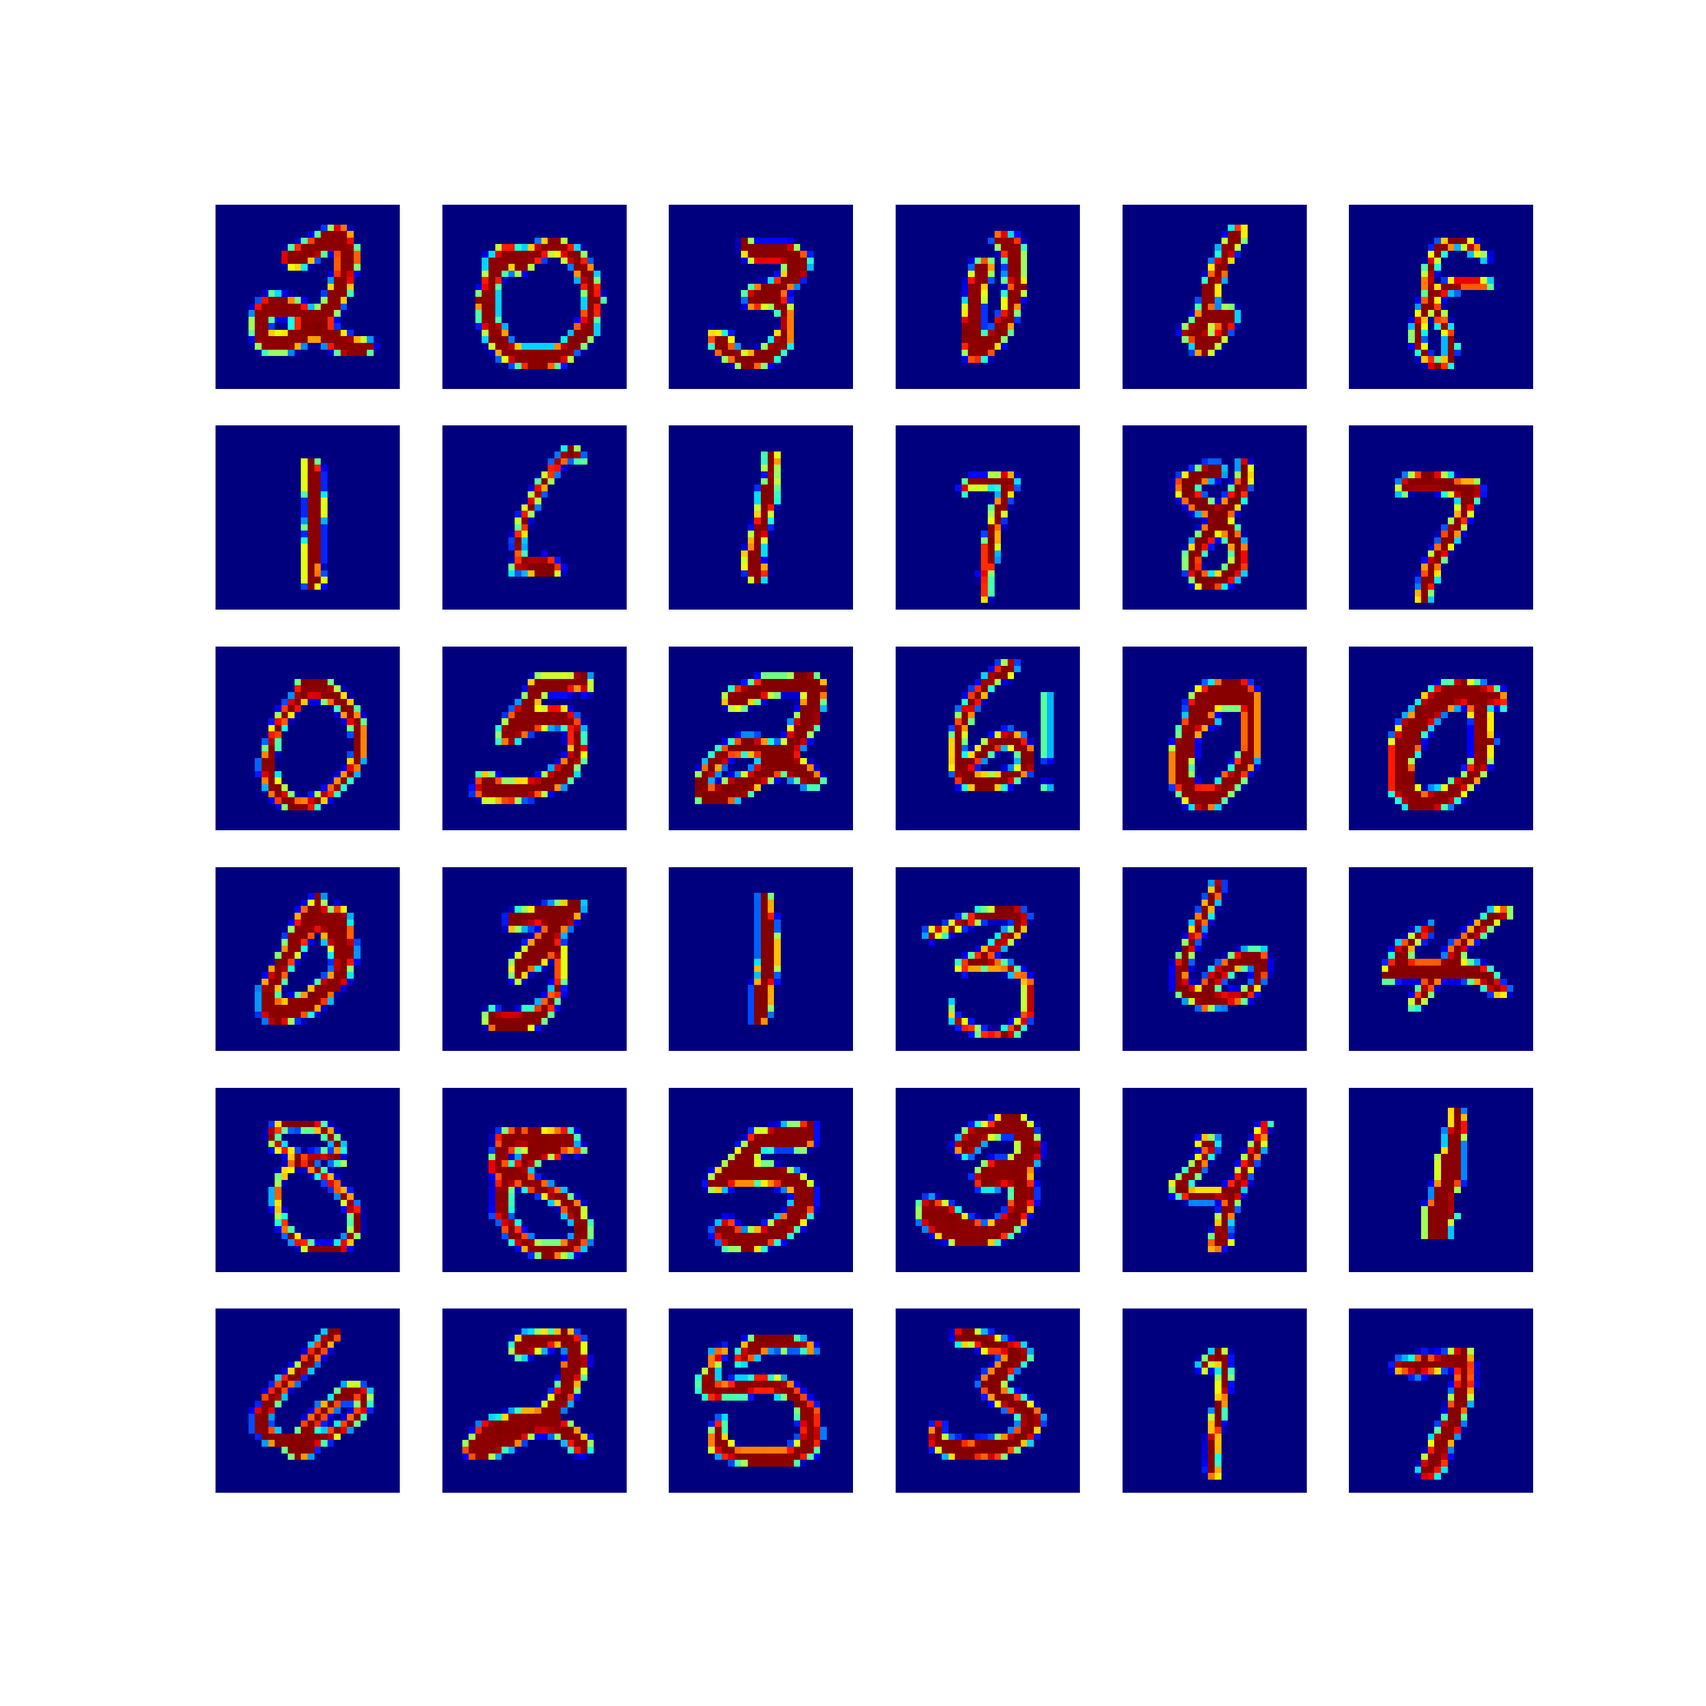
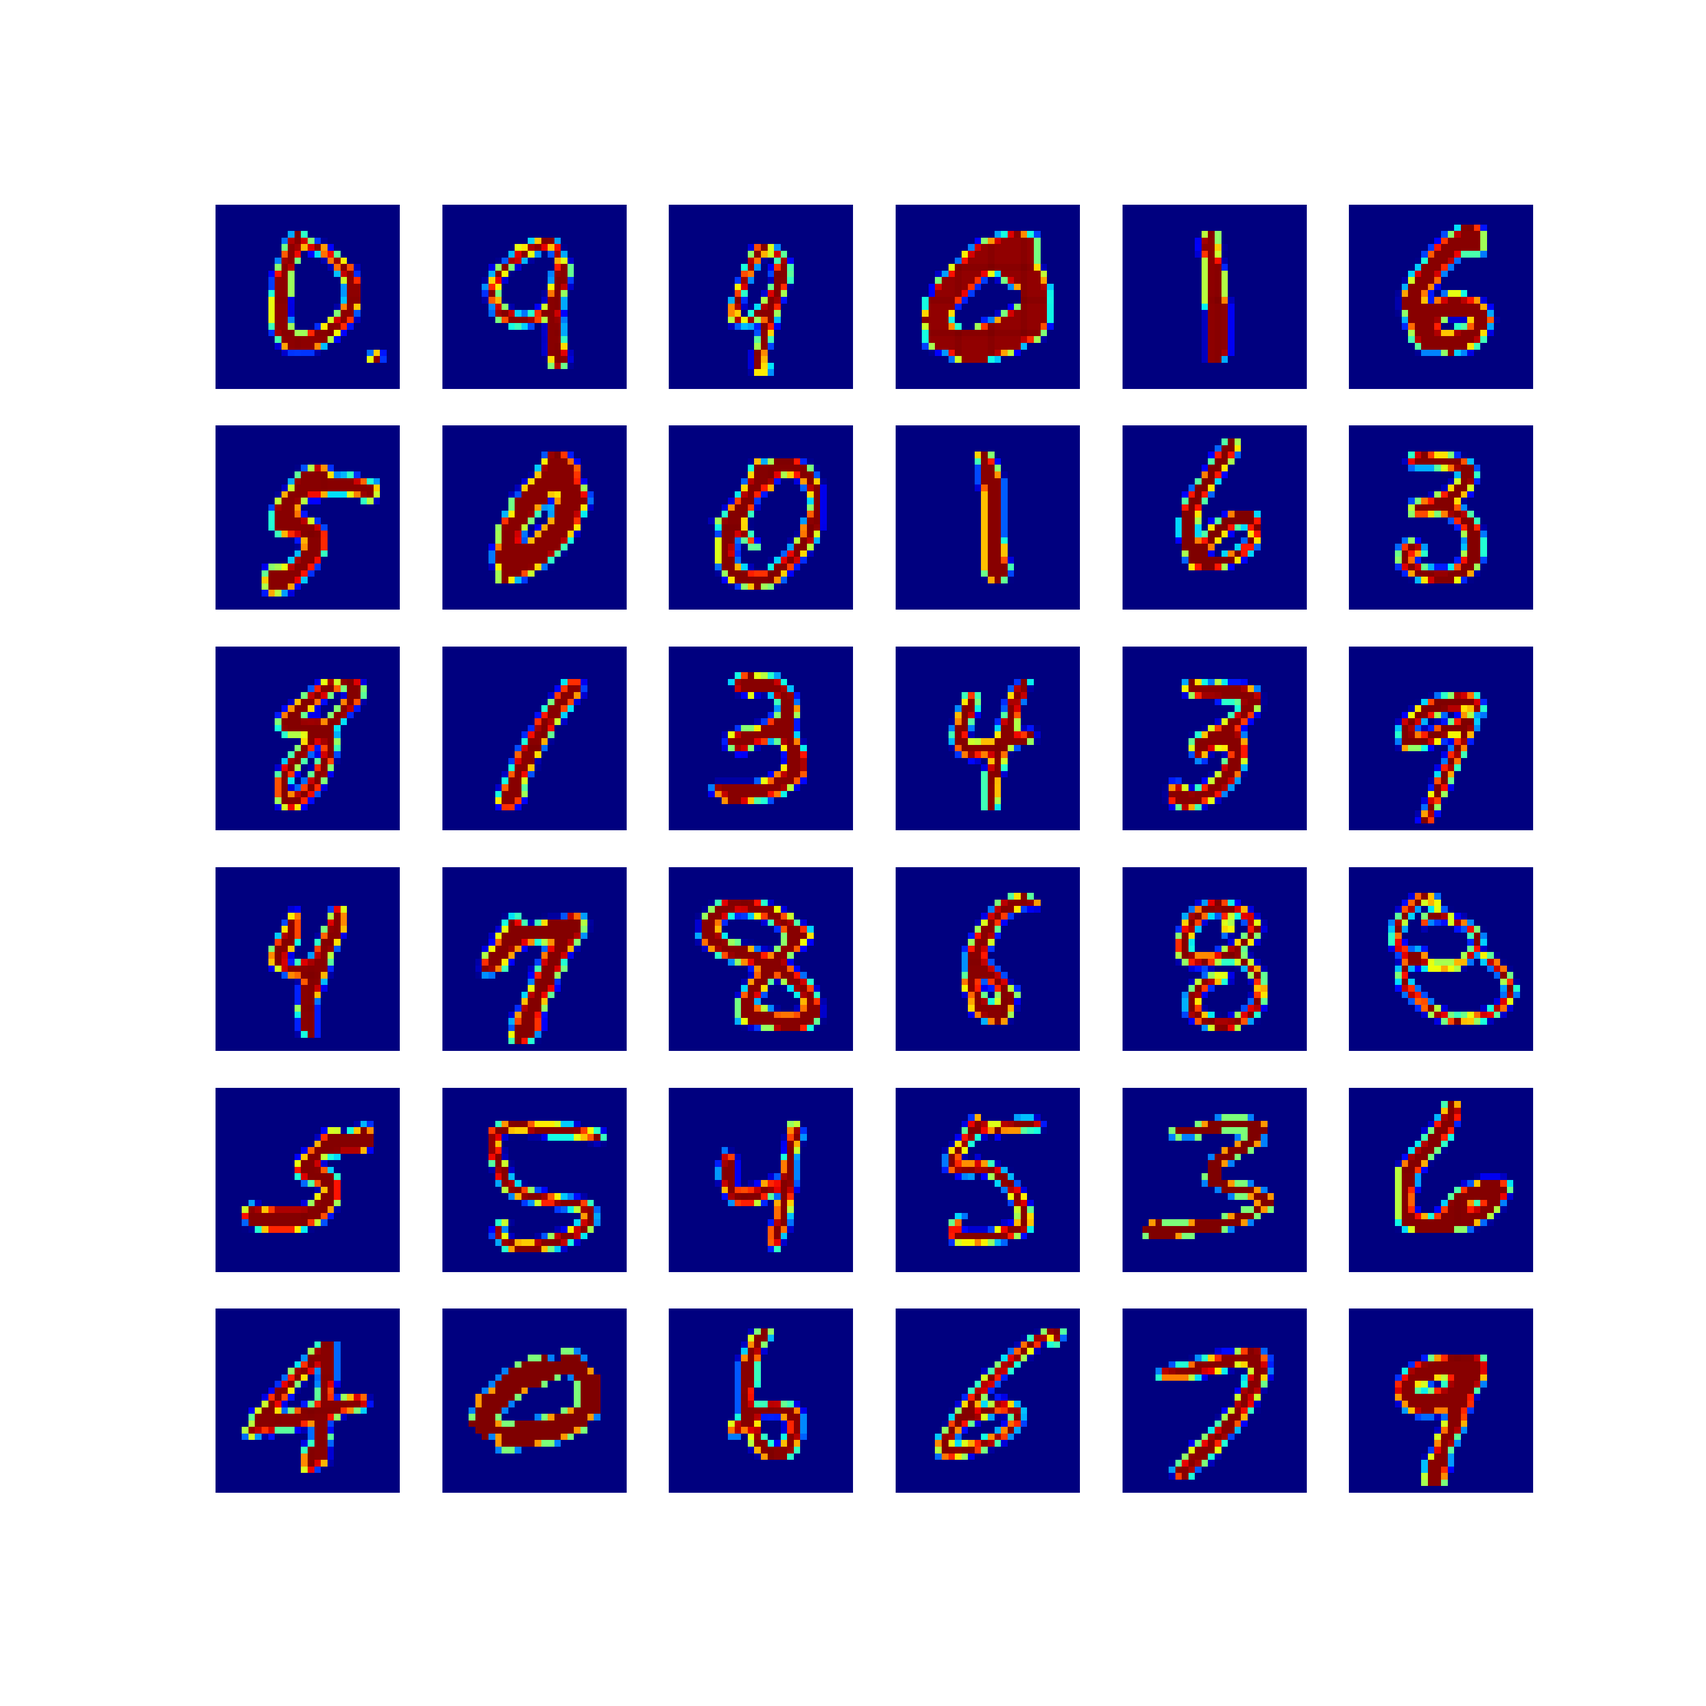
First version with 3D fields

diff --git a/tools/mytools.py b/tools/mytools.py
@@ -15,6 +15,169 @@ import sys
 import random
 import math
 import scipy.stats as stats
+import pyvista as pv
+import vtk
+
+###############################################################################
+###############################################################################
+class net_info:
+    '''Class to store the information of the permeability dataset'''
+    def __init__(self, conv_filters, conv_strides, conv_kernels, conv_activat,
+                 conv_padding, dens_neurons, dens_activat):
+        self.conv_filters = conv_filters
+        self.conv_strides = conv_strides
+        self.conv_kernels = conv_kernels
+        self.conv_activat = conv_activat
+        self.conv_padding = conv_padding
+        self.dens_neurons = dens_neurons
+        self.dens_activat = dens_activat
+###############################################################################
+
+###############################################################################
+###############################################################################
+def build_encoder3D(net, input_shape, latent_dim):
+    print(net.conv_filters,input_shape)
+    encoder_inputs = keras.Input(shape=input_shape)
+    x = layers.Conv3D(filters = net.conv_filters[0], 
+                      kernel_size = net.conv_kernels[0],
+                      strides = net.conv_strides[0], 
+                      activation = net.conv_activat[0],
+                      padding = net.conv_padding[0])(encoder_inputs)
+
+    for i in range(1,len(net.conv_filters)):
+      x = layers.Conv3D(filters = net.conv_filters[i], 
+                        kernel_size = net.conv_kernels[i],
+                        strides = net.conv_strides[i], 
+                        activation = net.conv_activat[i],
+                        padding = net.conv_padding[i])(x)
+    x = layers.Flatten()(x)
+    for i in range(len(net.dens_neurons)):
+      x = layers.Dense(net.dens_neurons[i], activation= net.dens_activat[i])(x)
+    z_mean = layers.Dense(latent_dim, name="z_mean")(x)
+    z_log_var = layers.Dense(latent_dim, name="z_log_var")(x)
+    z = Sampling(name='z')([z_mean, z_log_var])
+    encoder = keras.Model(encoder_inputs, [z_mean, z_log_var, z], name="encoder")
+    encoder.summary()
+    return encoder
+###############################################################################
+
+###############################################################################
+###############################################################################
+def build_decoder3D(net, input_shape, latent_dim, ndens, layer_shape, nconv):
+    latent_inputs = keras.Input(shape=(latent_dim,))
+    x = layers.Dense(net.dens_neurons[ndens],
+                     activation = net.dens_activat[ndens])(latent_inputs)
+    for i in range(ndens-1,-1,-1):
+      x = layers.Dense(net.dens_neurons[i], 
+                       activation = net.dens_activat[i])(x)
+
+    x = layers.Dense(layer_shape[0] * layer_shape[1] * layer_shape[2] *
+                     layer_shape[3], activation = "relu")(x)
+    x = layers.Reshape(layer_shape)(x)
+
+    for i in range(nconv,-1,-1):
+      x = layers.Conv3DTranspose(filters = net.conv_filters[i], 
+                                 kernel_size = net.conv_kernels[i],
+                                 strides = net.conv_strides[i], 
+                                 activation = net.conv_activat[i],
+                                 padding = net.conv_padding[i])(x)
+    decoder_outputs = layers.Conv3DTranspose(filters = input_shape[-1],
+                                             kernel_size = net.conv_kernels[0],
+                                             activation="linear", 
+                                             padding="same")(x)
+    decoder = keras.Model(latent_inputs, decoder_outputs, name="decoder")
+    decoder.summary()
+    return decoder
+###############################################################################
+
+###############################################################################
+###############################################################################
+def build_encoder2D(net, input_shape, latent_dim):
+    encoder_inputs = keras.Input(shape=input_shape)
+    x = layers.Conv2D(filters = net.conv_filters[0], 
+                      kernel_size = net.conv_kernels[0],
+                      strides = net.conv_strides[0], 
+                      activation = net.conv_activat[0],
+                      padding = net.conv_padding[0])(encoder_inputs)
+    for i in range(1,len(net.conv_filters)):
+      x = layers.Conv2D(filters = net.conv_filters[i], 
+                        kernel_size = net.conv_kernels[i],
+                        strides = net.conv_strides[i], 
+                        activation = net.conv_activat[i],
+                        padding = net.conv_padding[i])(x)
+    x = layers.Flatten()(x)
+    for i in range(len(net.dens_neurons)):
+      x = layers.Dense(net.dens_neurons[i], activation= net.dens_activat[i])(x)
+    z_mean = layers.Dense(latent_dim, name="z_mean")(x)
+    z_log_var = layers.Dense(latent_dim, name="z_log_var")(x)
+    z = Sampling(name='z')([z_mean, z_log_var])
+    encoder = keras.Model(encoder_inputs, [z_mean, z_log_var, z], name="encoder")
+    encoder.summary()
+    return encoder
+###############################################################################
+
+###############################################################################
+###############################################################################
+def build_decoder2D(net, input_shape, latent_dim, ndens, layer_shape, nconv):
+    latent_inputs = keras.Input(shape=(latent_dim,))
+    x = layers.Dense(net.dens_neurons[ndens],
+                     activation = net.dens_activat[ndens])(latent_inputs)
+    for i in range(ndens-1,-1,-1):
+      x = layers.Dense(net.dens_neurons[i], activation= net.dens_activat[i])(x)
+
+    x = layers.Dense(layer_shape[0] * layer_shape[1] * layer_shape[2], 
+                     activation="relu")(x)
+    x = layers.Reshape(layer_shape)(x)
+
+    for i in range(nconv,-1,-1):
+      x = layers.Conv2DTranspose(filters = net.conv_filters[i], 
+                                 kernel_size = net.conv_kernels[i],
+                                 strides = net.conv_strides[i], 
+                                 activation = net.conv_activat[i],
+                                 padding = net.conv_padding[i])(x)
+    decoder_outputs = layers.Conv2DTranspose(filters = input_shape[-1],
+                                             kernel_size = net.conv_kernels[0],
+                                             activation="linear", 
+                                             padding="same")(x)
+    decoder = keras.Model(latent_inputs, decoder_outputs, name="decoder")
+    decoder.summary()
+    return decoder
+###############################################################################
+
+###############################################################################
+###############################################################################
+def fieldplot3D(f,Lx,Ly,Lz,nx,ny,nz,name):
+    field = f[:,:,0:nz]
+    field = np.reshape(field,(nx*ny*nz))
+    dx  = Lx/nx
+    dy  = Ly/ny
+    dz  = Lz/nz
+    # mesh ####################################################################
+    #values = np.linspace(0, 10, nx * ny * nz).reshape((nx, ny, nz))
+    values = field.reshape((nx, ny, nz))
+    values.shape
+    # Create the spatial reference ############################################
+    grid = pv.UniformGrid()
+    # Initialize from a vtk.vtkImageData object ###############################
+    vtkgrid = vtk.vtkImageData()
+    grid = pv.UniformGrid(vtkgrid)
+    # Set the grid dimensions: shape + 1 because we want to inject our values on
+    # the CELL data
+    grid.dimensions = np.array(values.shape) + 1
+    # Edit the spatial reference
+    grid.origin = (0, 0, 0)  # The bottom left corner of the data set
+    grid.spacing = (dx, dy, dz)  # These are the cell sizes along each axis
+    # Add the data values to the cell data
+    grid['data'] = values.flatten(order="F")  # Flatten the array!
+    # Now plot the grid!
+    boring_cmap = plt.cm.get_cmap("viridis", 10)
+    boring_cmap = 'jet'
+    grid.plot(off_screen=False, interactive=False, eye_dome_lighting=False,
+              return_viewer=False, show_edges=True, cmap = boring_cmap, 
+              cpos=[-2, 5, 3], show_bounds=True, show_axes=True)
+#    threshed = grid.threshold_percent([0.15, 0.50], invert=True)
+#    threshed.plot(show_grid=True, cpos=[-2, 5, 3])
+###############################################################################
 
 
 ###############################################################################
@@ -215,6 +378,9 @@ class VAE(keras.Model):
         with tf.GradientTape() as tape:
             z_mean, z_log_var, z = self.encoder(data)
             reconstruction = self.decoder(z)
+ #           print(type(reconstruction),type(data))
+ #           print(reconstruction.shape, data.shape)
+ #           sys.exit()
             reconstruction_loss = tf.reduce_mean(
                 tf.reduce_sum(
                     keras.losses.MeanSquaredError(reduction="none")(data, reconstruction), axis=(1, 2)

diff --git a/vae_borges.py b/vae_borges.py
@@ -15,14 +15,27 @@ sys.path.append("./tools/")
 from mytools import Sampling, VAE, fieldgenerator, plot_latent_space
 from mytools import plot_label_clusters, perm_info, save_model_weights
 from mytools import load_dataset, plot_examples, conference, plot_latent_hist
+from mytools import build_encoder3D, build_decoder3D, build_encoder2D
+from mytools import build_decoder2D, net_info, fieldplot3D
 ###############################################################################
 ###############################################################################
 # Load data base ==============================================================
-input_shape= (28, 28, 1)
+Lx  = 1.0
+Ly  = 1.0
+Lz  = 0.25
+nx  = 28
+ny  = 28
+nz  = 1
+num_channel = 1
+if nz == 1:
+    input_shape= (nx, ny, num_channel)
+else:
+    input_shape= (nx, ny, nz, num_channel)
+#==============================================================================
 data_size  = 20000
 home       = './KLE/fields/'
-namein     = home + 'sexp_1.00x1.00x0.06_50x50x3_l0.10x0.10x0.05_20000.mat'
-namein     = home + 'sexp_1.00x1.00x0.01_28x28x1_l0.10x0.10x0.10_20000.mat'
+namein     = home + 'sexp_1.00x1.00x0.01_28x28x1_l0.05x0.05x0.05_20000.mat'
+#namein     = home + 'sexp_1.00x1.00x0.25_28x28x7_l0.05x0.05x0.02_200.mat'
 porous     = False
 porosity   = 0.20
 infoperm   = perm_info(namein, porous, input_shape, data_size, porosity)
@@ -34,17 +47,18 @@ preprocess = False
 train_images, test_images = load_dataset(dataname,preprocess,infoperm)
 plot_examples(train_images, namefig)
 print("Data interval [%g,%g]" % (np.min(train_images),np.max(train_images)))
+#fieldplot3D(train_images[0,:,:,:],Lx,Ly,Lz,nx,ny,nz,dataname)
 ###############################################################################
 # Parameters ==================================================================
 train_size = np.size(train_images,0)
 batch_size = 128
 test_size  = np.size(test_images,0)
-input_shape= train_images.shape[1:]
+inputshape = train_images.shape[1:]
 lrate      = 1.e-4
 optimizer  = tf.keras.optimizers.Adam(learning_rate = lrate)
-epochs     = 500
+epochs     = 1000
 # set the dimensionality of the latent space to a plane for visualization later
-latent_dim = 2
+latent_dim = 8
 num_examples_to_generate = 16
 #==============================================================================
 ###############################################################################
@@ -56,23 +70,13 @@ conv_activat = ["relu", "relu", "relu", "relu", "relu", "relu", "relu"]
 conv_padding = ["same", "same", "same", "same", "same", "same", "same"]
 dens_neurons = [256, 128, 128]
 dens_activat = ["relu", "relu", "relu", "relu"]
+net          = net_info(conv_filters, conv_strides, conv_kernels, conv_activat, 
+                        conv_padding, dens_neurons, dens_activat)
 #==============================================================================
-encoder_inputs = keras.Input(shape=input_shape)
-x = layers.Conv2D(filters = conv_filters[0], kernel_size = conv_kernels[0],
-                  strides = conv_strides[0], activation = conv_activat[0],
-                  padding = conv_padding[0])(encoder_inputs)
-for i in range(1,len(conv_filters)):
-  x = layers.Conv2D(filters = conv_filters[i], kernel_size = conv_kernels[i],
-                    strides = conv_strides[i], activation = conv_activat[i],
-                    padding = conv_padding[i])(x)
-x = layers.Flatten()(x)
-for i in range(len(dens_neurons)):
-  x = layers.Dense(dens_neurons[i], activation = dens_activat[i])(x)
-z_mean = layers.Dense(latent_dim, name="z_mean")(x)
-z_log_var = layers.Dense(latent_dim, name="z_log_var")(x)
-z = Sampling(name='z')([z_mean, z_log_var])
-encoder = keras.Model(encoder_inputs, [z_mean, z_log_var, z], name="encoder")
-encoder.summary()
+if input_shape[2] == 1:
+    encoder = build_encoder2D(net, input_shape, latent_dim)
+else:
+    encoder = build_encoder3D(net, input_shape, latent_dim)
 #==============================================================================
 ###############################################################################
 # Collecting information for building the mirrored decoder ====================
@@ -91,27 +95,12 @@ nconv = len(conv_filters) - 1
 #==============================================================================
 ###############################################################################
 # Build the decoder ===========================================================
-latent_inputs = keras.Input(shape=(latent_dim,))
-x = layers.Dense(dens_neurons[ndens],
-                 activation = dens_activat[ndens])(latent_inputs)
-for i in range(ndens-1,-1,-1):
-  x = layers.Dense(dens_neurons[i], activation = dens_activat[i])(x)
-
-x = layers.Dense(layer_shape[0] * layer_shape[1] * layer_shape[2], 
-                 activation="relu")(x)
-x = layers.Reshape((layer_shape[0], layer_shape[1], layer_shape[2]))(x)
-
-for i in range(nconv,-1,-1):
-  x = layers.Conv2DTranspose(filters = conv_filters[i], 
-                             kernel_size = conv_kernels[i],
-                             strides = conv_strides[i], 
-                             activation = conv_activat[i],
-                             padding = conv_padding[i])(x)
-decoder_outputs = layers.Conv2DTranspose(filters = input_shape[-1],
-                                         kernel_size = conv_kernels[0],
-                                         activation="linear", padding="same")(x)
-decoder = keras.Model(latent_inputs, decoder_outputs, name="decoder")
-decoder.summary()
+if input_shape[2] == 1: 
+    decoder = build_decoder2D(net, input_shape, latent_dim, ndens,
+                              layer_shape, nconv)
+else:        
+    decoder = build_decoder3D(net, input_shape, latent_dim, ndens,
+                              layer_shape, nconv)
 #==============================================================================
 ###############################################################################
 # Train the VAE ===============================================================

diff --git a/KLE/KLEgenerator3D_conditioned.m b/KLE/KLEgenerator3D_conditioned.m
@@ -47,14 +47,14 @@ else
     ntipo = 3; % 1 == exponential, 3 == square exponential %%%%%%%%%%%%%%%%
     %%%%%%%%%%%%%%%%%%%%%%%%%%%%%%%%%%%%%%%%%%%%%%%%%%%%%%%%%%%%%%%%%%%%%%%
     %%%%% physical dimensions %%%%%%%%%%%%%%%%%%%%%%%%%%%%%%%%%%%%%%%%%%%%%
-    Lx = 1.08;
-    Ly = 1.08;
-    Lz = 0.24;
+    Lx = 1.0;
+    Ly = 1.0;
+    Lz = 0.01;
     %%%%%%%%%%%%%%%%%%%%%%%%%%%%%%%%%%%%%%%%%%%%%%%%%%%%%%%%%%%%%%%%%%%%%%%
     %%%%% mesh for covariance matrix %%%%%%%%%%%%%%%%%%%%%%%%%%%%%%%%%%%%%%
-    nx = 36;
-    ny = 36;
-    nz = 8;
+    nx = 28;
+    ny = 28;
+    nz = 1;
     %%%%%%%%%%%%%%%%%%%%%%%%%%%%%%%%%%%%%%%%%%%%%%%%%%%%%%%%%%%%%%%%%%%%%%%
     %%% Mesh for interpolation %%%%%%%%%%%%%%%%%%%%%%%%%%%%%%%%%%%%%%%%%%%%
     NX = 34;
@@ -63,10 +63,10 @@ else
     interpolacao = 10; % if == 1 the eigenvector are interpolated to this mesh
     %%%%%%%%%%%%%%%%%%%%%%%%%%%%%%%%%%%%%%%%%%%%%%%%%%%%%%%%%%%%%%%%%%%%%%%
     %%%%%%%%%%%%%%%%%%%%%%%%%%%%%%%%%%%%%%%%%%%%%%%%%%%%%%%%%%%%%%%%%%%%%%%
-    eta1  = 0.054;       % correlation length in the x direction
-    eta2  = 0.054;       % correlation length in the y direction
-    eta3  = 0.027;       % correlation length in the z direction
-    Nrand = 200;      % total number of realizations
+    eta1  = 0.05;       % correlation length in the x direction
+    eta2  = 0.05;       % correlation length in the y direction
+    eta3  = 0.05;       % correlation length in the z direction
+    Nrand = 20000;      % total number of realizations
     M     = 0;      % number of terms used in the KL expansion. OBS: if == 0 it 
                        % uses the maximum number of terms (nx^2 x ny^2 x nz^2)
     TIPOINPUT = 10;     % if == 1 reads the conditioned points from the file
